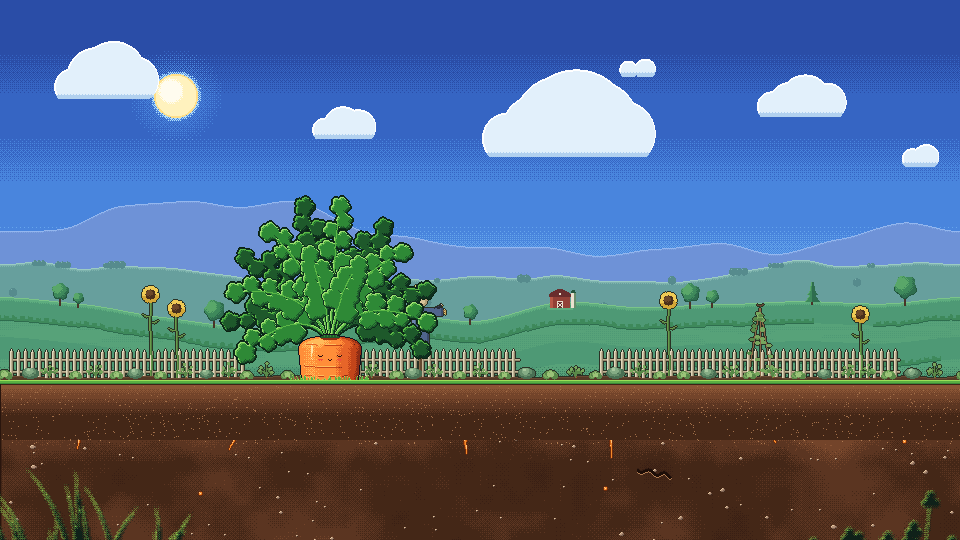
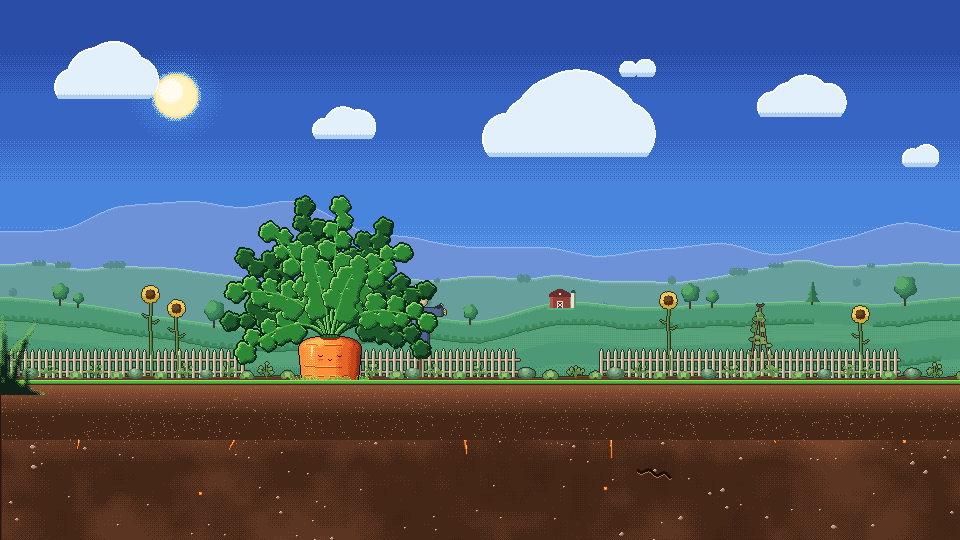
guitar-goblin: update iCarrot wiki (Merge intro/foreground-pieces: level foregrounds become Fore)

Changed region(s): [[0.0, 0.8889, 0.2188, 1.0], [0.875, 0.9185, 1.0, 1.0], [0.0, 0.6222, 0.0625, 0.7407]]

diff --git a/sections/guitar-goblin/icarrot-wiki/biomes/warm-burrow.html b/sections/guitar-goblin/icarrot-wiki/biomes/warm-burrow.html
@@ -177,8 +177,8 @@ silhouettes.</p>
   <code>burrow_bg_mid</code>, <code>burrow_bg_near</code>, and the foreground pieces <code>burrow_fg_hang</code>, <code>_taproot</code>,
   <code>_curtain</code>, <code>_hang_worm</code>, <code>_side</code> and <code>_bottom</code>, each with a <code>_blur</code> version. Use the blurred ones in
   game; the sharp ones are for reference. <code>scenes/burrow_test.tscn</code> shows the full setup: each
-  backdrop layer in its own Parallax2D under <code>Backdrop</code>, and the foreground pieces in one Parallax2D
-  above everything.</li>
+  backdrop layer in its own Parallax2D under <code>Backdrop</code>, and each foreground piece as a
+  <code>ForegroundPiece</code> under <code>Foreground</code>, placed right where it hangs or stands (see <a href="../levels/level-parts.html">Level Parts</a>).</li>
 <li>To re-bake after changing the art, run <code>tools/underground/warm_burrow/bake.gd</code> as a headless Godot
   script (the command is at the top of the file).</li>
 </ul>

diff --git a/sections/guitar-goblin/icarrot-wiki/biomes/overgrown-vault.html b/sections/guitar-goblin/icarrot-wiki/biomes/overgrown-vault.html
@@ -175,7 +175,8 @@ silhouettes and a fallen carved block, and a broken column standing up from the 
   <code>_side</code>, <code>_lip</code> and <code>_column</code>, each with a <code>_blur</code> version for the game.</li>
 <li>Put the door behind the level geometry with its foot tucked behind the floor, and the glow image on
   top with a modulate brighter than white so it blooms. <code>scenes/vault_test.tscn</code> shows the whole setup, including
-  where the hanging foreground pieces go: along the ceiling, or they drift mid-screen.</li>
+  where the foreground pieces go: each is a <code>ForegroundPiece</code> hung from a real ceiling or set on a real
+  floor or wall, since it sits exactly where it's placed.</li>
 <li>To re-bake, run <code>tools/underground/overgrown_vault/bake.gd</code> as a headless Godot script.</li>
 </ul>
 <h2 id="design-notes">Design notes</h2>

diff --git a/sections/guitar-goblin/icarrot-wiki/levels/garden-intro.html b/sections/guitar-goblin/icarrot-wiki/levels/garden-intro.html
@@ -96,7 +96,7 @@ stroll across it, and jump into a hole that leads down into the <a href="../biom
 <li><strong>The hole:</strong> a wide opening in the ground, with grass curling over its lips, roots dangling down
    it, and amber mushrooms glowing on both walls.</li>
 <li><strong>The fall:</strong> jump in and the camera follows you down a deep shaft. Mushrooms glow past on the
-   walls, the garden slides away above, and the blurred foreground grass sweeps past the camera. You
+   walls and the garden slides away above. You
    land in a small burrow cave.</li>
 </ol>
 <h2 id="camera">Camera</h2>
